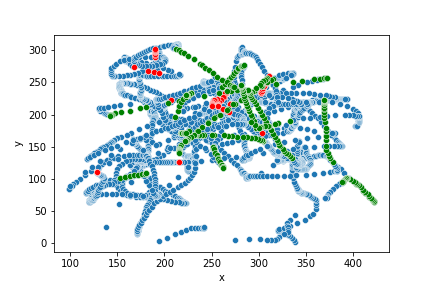
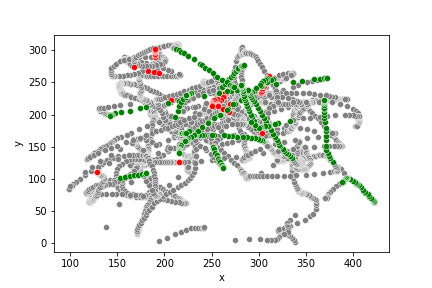
unité sec graph + color grey

diff --git a/python/heatmap.py b/python/heatmap.py
@@ -109,11 +109,11 @@ if __name__ == "__main__":
 
 
     plt.figure()
-    sns.scatterplot(data=df, x="x", y="y")
+    sns.scatterplot(data=df, x="x", y="y", color='grey')
     plt.savefig("output/tracePoint_mouse_"+NAME+".png")
     
     plt.figure()
-    sns.scatterplot(data=df, x="x", y="y")
+    sns.scatterplot(data=df, x="x", y="y", color='grey')
     
     for i in range(len(zoomCoords)):
         df_zoom1 = zoomCoords[i]
@@ -161,11 +161,11 @@ if __name__ == "__main__":
 
 
     plt.figure()
-    sns.scatterplot(data=df, x="xlatLong", y="ylatLong")
+    sns.scatterplot(data=df, x="xlatLong", y="ylatLong", color='grey')
     plt.savefig("output/tracePoint_mouse2_"+NAME+".png")
     
     plt.figure()
-    sns.scatterplot(data=df, x="xlatLong", y="ylatLong")
+    sns.scatterplot(data=df, x="xlatLong", y="ylatLong", color='grey')
     
     for i in range(len(zoomCoords)):
         df_zoom1 = zoomCoords[i]

diff --git a/python/traitementCsv_v2.py b/python/traitementCsv_v2.py
@@ -87,7 +87,7 @@ def drawGraphNivZoomDuration(df_zoom):
     plt.xticks(range(minNiv, maxNiv+1, 1))
 
     plt.xlabel("Niveau de zoom")
-    plt.ylabel("temps de zoom")
+    plt.ylabel("temps de zoom en sec")
 
     plt.savefig("output/durationNivZoom_"+NAME+".png")
     plt.show()
@@ -104,7 +104,7 @@ def drawGraphTypeEvents(df):
     plt.show()
 
 
-NAME = 'jbeilin'
+NAME = 'iamvdo'
     
 if __name__ == "__main__":
 
